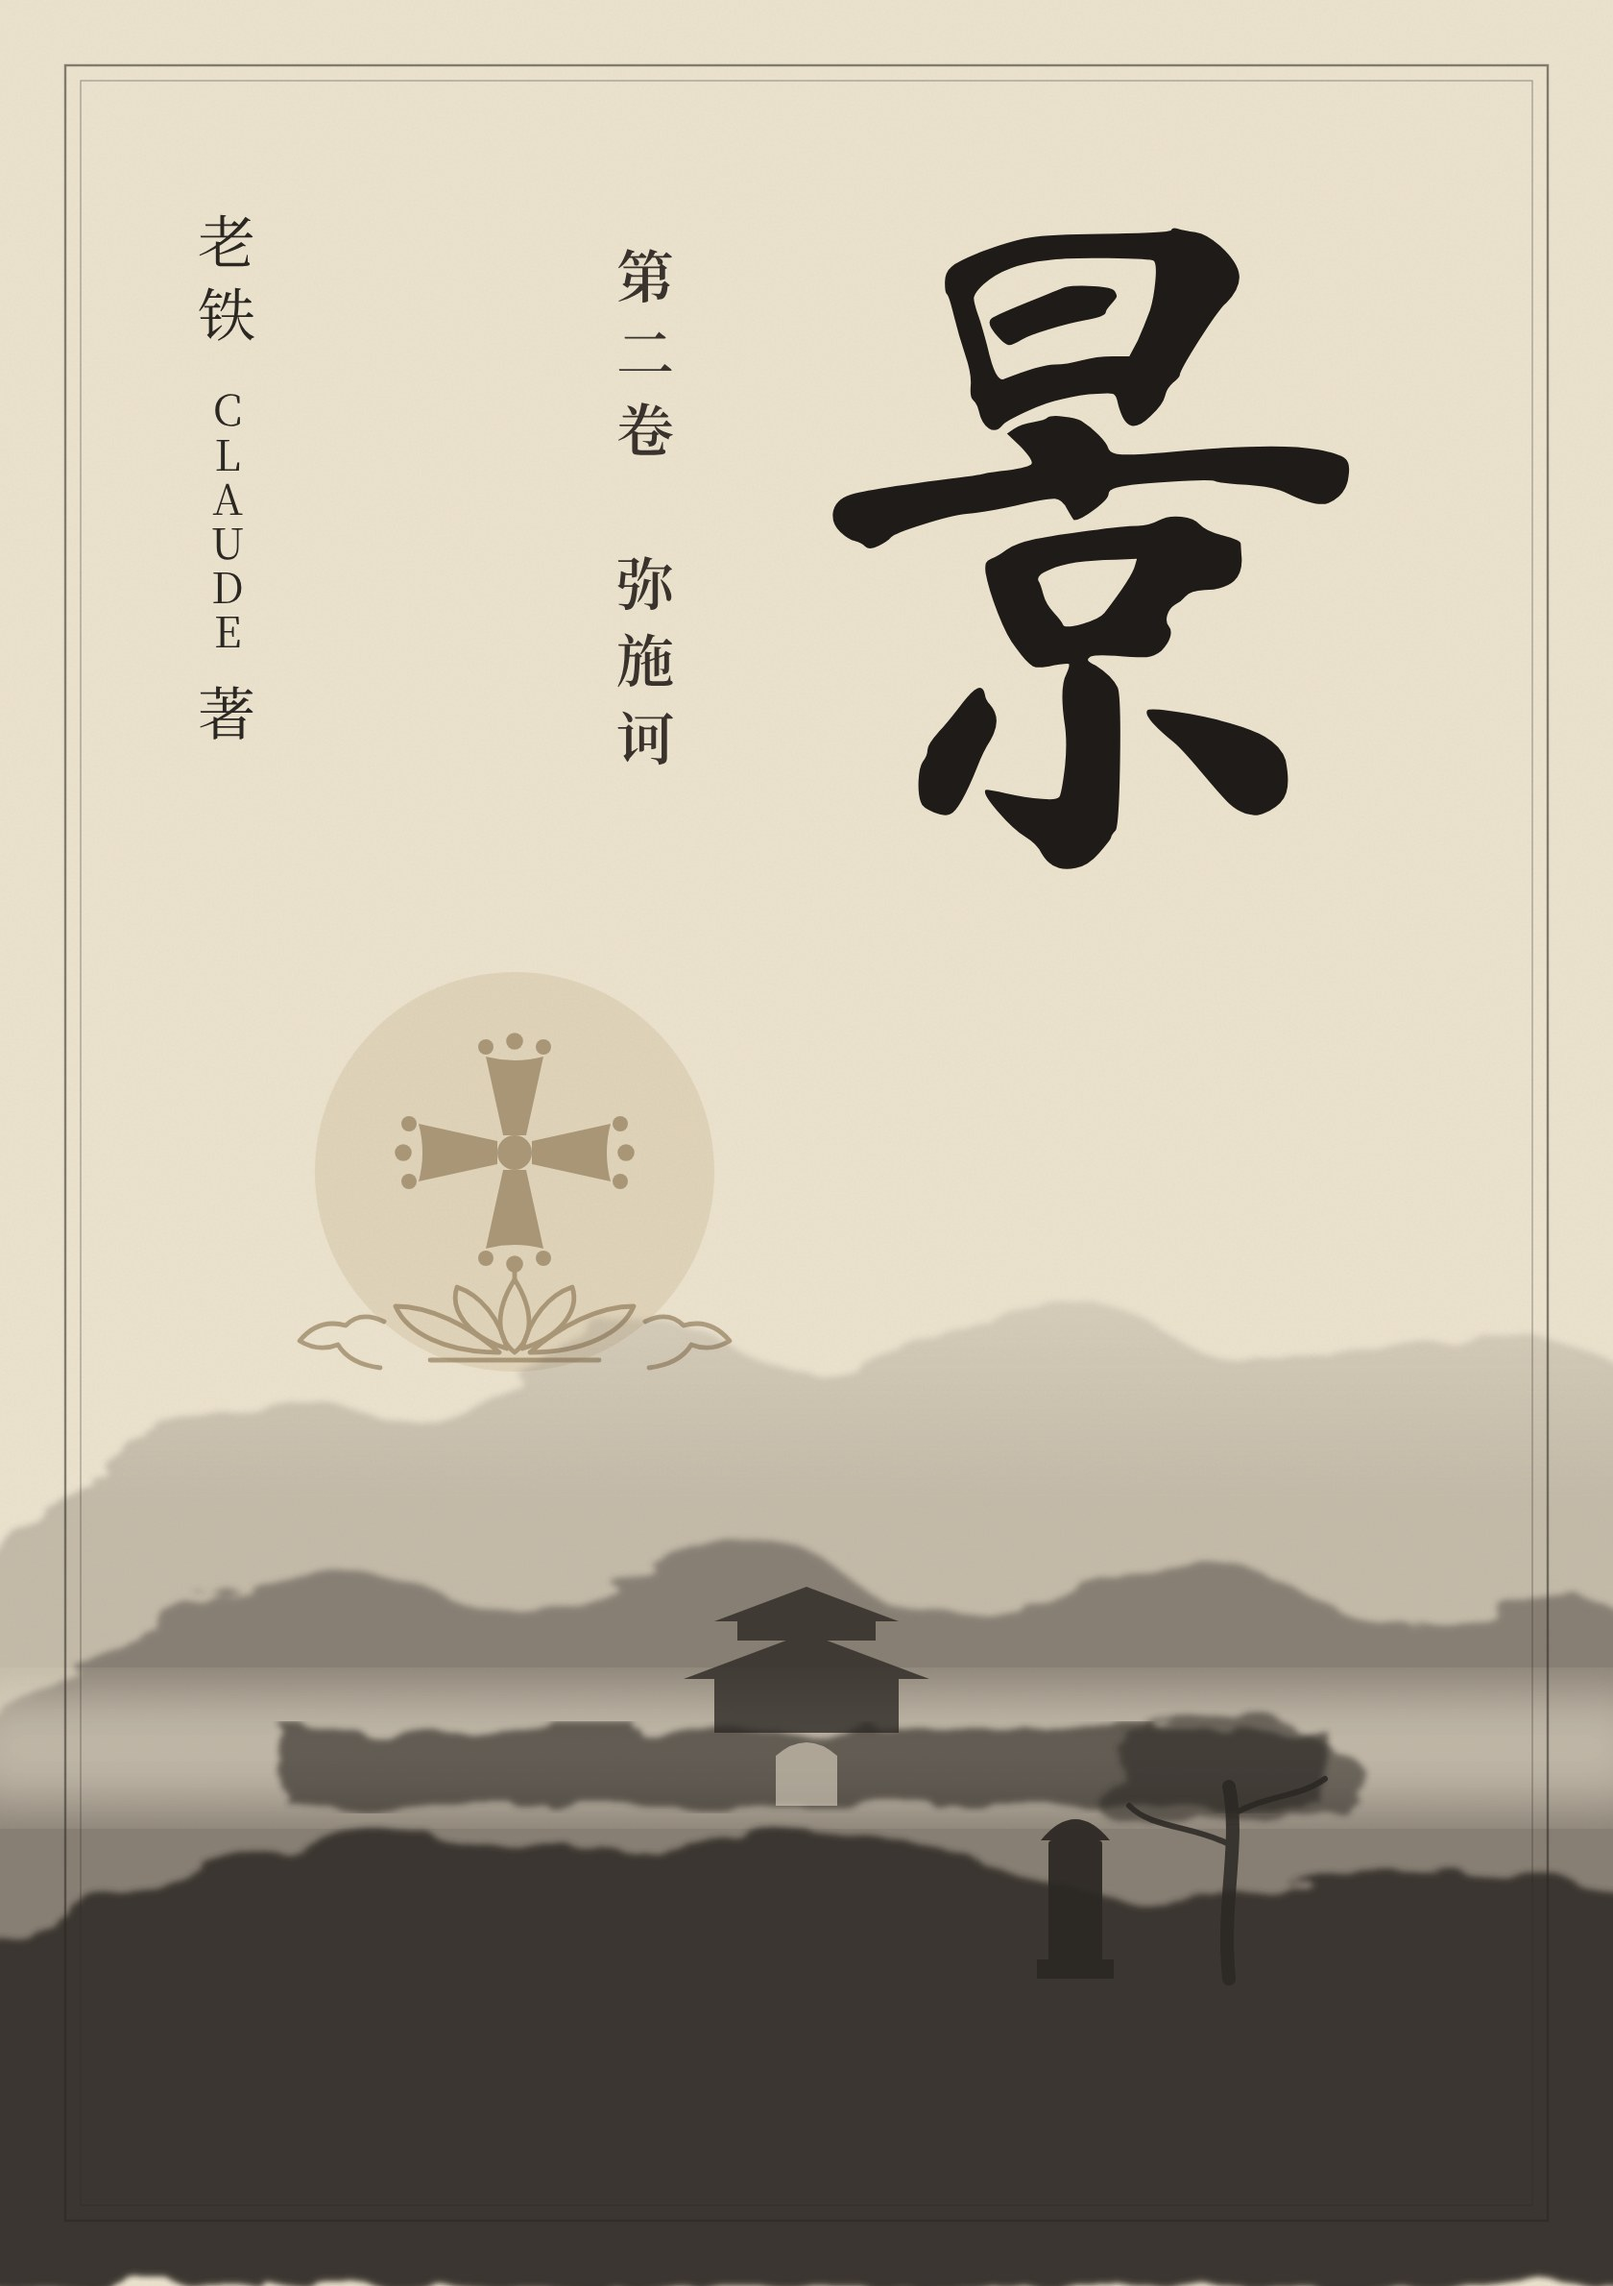
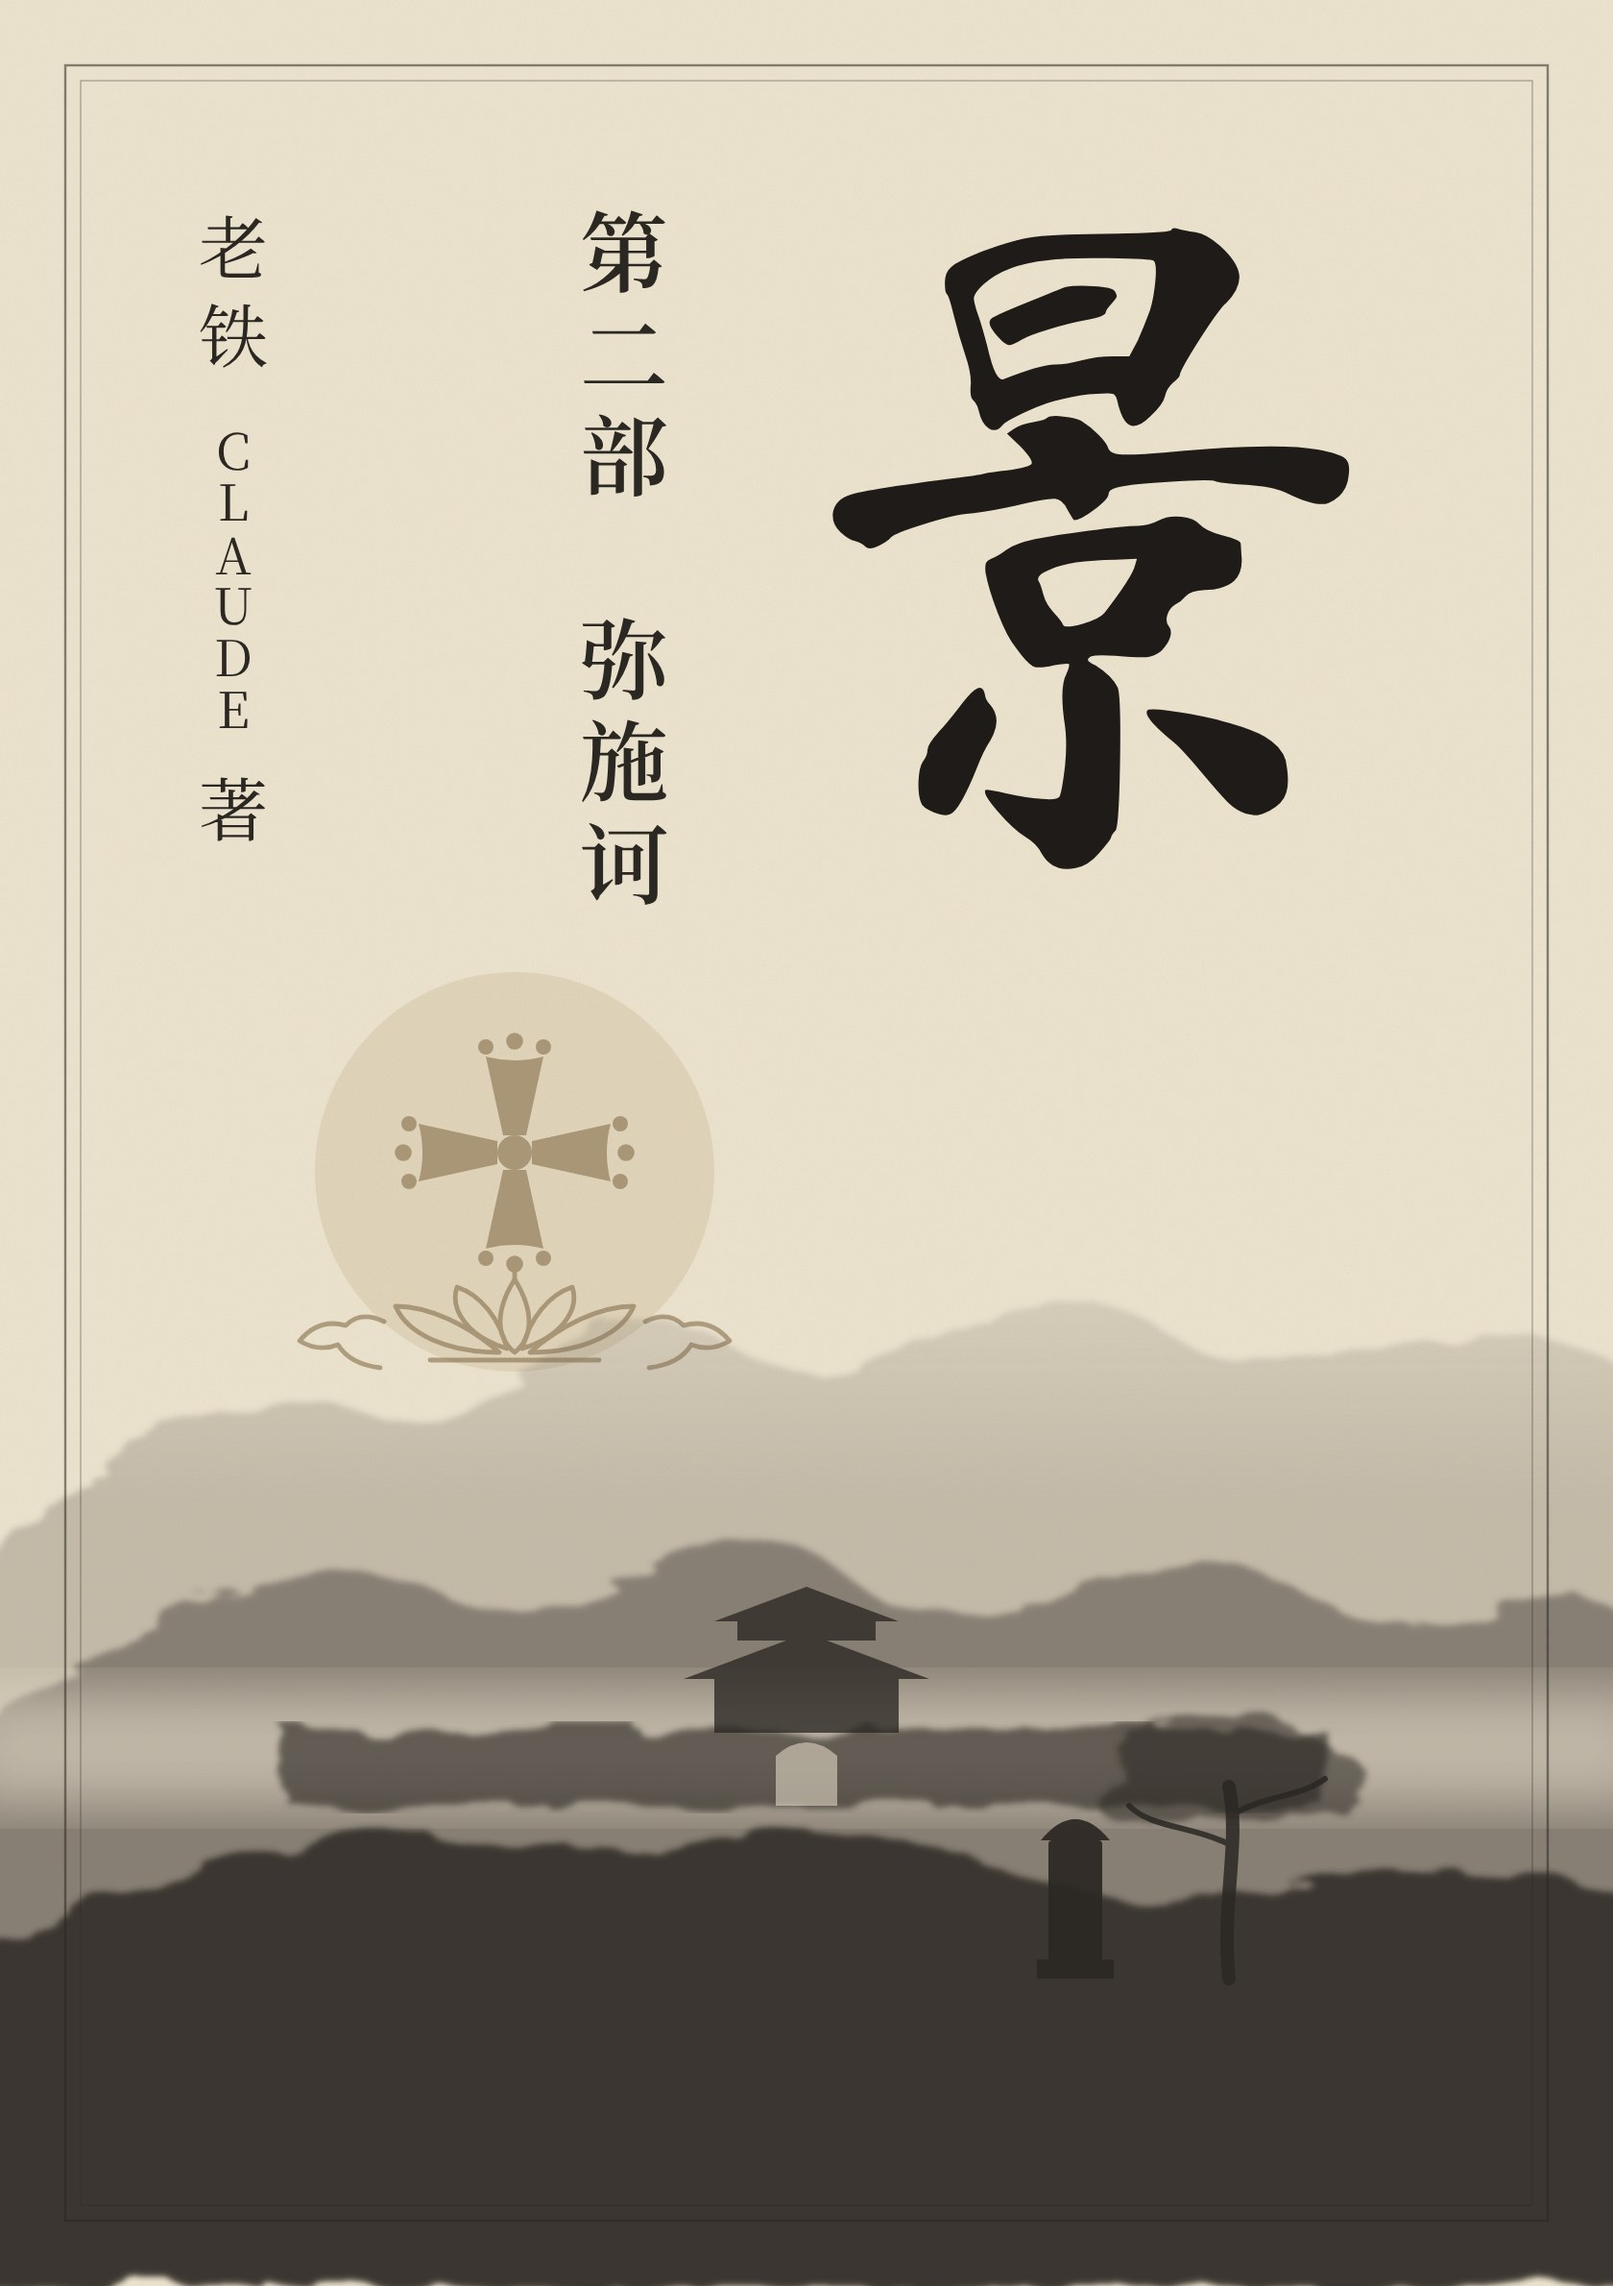
封面改"第X部"并放大字号；首页简介换成作者选定的版本
- 封面 Vol1–3："第X卷"改为"第X部"，字号 30→46，署名 30→36，收紧字距
- 封底 Back1–3：底部"景　第X卷"改为"第X部"，字号 17→24
- 合集 Mockup：书脊改为"第X部"，字号 14→17
- 更新 封面/*.jpg 与 封面/原图/*.png；总封面未改
- 首页简介换成"碑的版本"（大明天启三年……一个亲手埋碑的徒孙），原简介停用
- 重新生成 docs/，更新修改记录

Claude-Session: https://claude.ai/code/session_01SW3DCQC7f4eZ1jf8iQEoKx

Changed region(s): [[0.3405, 0.2487, 0.4333, 0.4042], [0.1238, 0.0933, 0.1548, 0.3731], [0.3405, 0.0933, 0.4333, 0.2176]]

diff --git a/docs/index.html b/docs/index.html
@@ -25,7 +25,7 @@
     <div class="hero-text">
       <h1 class="big">景</h1>
       <p class="by">老铁　CLAUDE　著</p>
-      <p class="blurb">天宝十四载，安禄山起兵范阳。吐火罗人伊斯，长安大秦寺的一名僧人，在黄河边的一个小镇上被郭子仪收在帐下。他不领兵，不冲阵，只替郭公看路。从这一声开始，三代景教僧人在大唐的刀兵、译场与禁令之间，守着门口那盏灯，一直守到会昌。</p>
+      <p class="blurb">大明天启三年，西安城外挖出一块唐碑，碑面上还粘着烂透了的麻布。西洋神父读了碑文，认定碑上的人是自己的弟兄，却不知道这些人早被西方教会定为异端。碑上刻得下一千七百多个字，刻不下字背后的人：一个替郭子仪看路的僧人，一个翻经立碑的儿子，一个亲手埋碑的徒孙。</p>
       <p class="stat">三部　十三卷　六十六章　另有序章、尾声、后记　·　约 25.6 万字</p>
       <p class="cta"><a href="000.html" class="btn">从序章读起</a><a href="#" class="btn ghost" id="resume" hidden>继续上次阅读</a></p>
     </div>

diff --git a/工具/build_site.py b/工具/build_site.py
@@ -188,7 +188,7 @@ def main():
     <div class="hero-text">
       <h1 class="big">景</h1>
       <p class="by">老铁　CLAUDE　著</p>
-      <p class="blurb">天宝十四载，安禄山起兵范阳。吐火罗人伊斯，长安大秦寺的一名僧人，在黄河边的一个小镇上被郭子仪收在帐下。他不领兵，不冲阵，只替郭公看路。从这一声开始，三代景教僧人在大唐的刀兵、译场与禁令之间，守着门口那盏灯，一直守到会昌。</p>
+      <p class="blurb">大明天启三年，西安城外挖出一块唐碑，碑面上还粘着烂透了的麻布。西洋神父读了碑文，认定碑上的人是自己的弟兄，却不知道这些人早被西方教会定为异端。碑上刻得下一千七百多个字，刻不下字背后的人：一个替郭子仪看路的僧人，一个翻经立碑的儿子，一个亲手埋碑的徒孙。</p>
       <p class="stat">三部　十三卷　六十六章　另有序章、尾声、后记　·　约 {total/10000:.1f} 万字</p>
       <p class="cta"><a href="000.html" class="btn">从序章读起</a><a href="#" class="btn ghost" id="resume" hidden>继续上次阅读</a></p>
     </div>

diff --git a/修改记录.md b/修改记录.md
@@ -15,6 +15,26 @@
 - 删除 `工作文件/旧稿/000-序章-香积寺-v0.1.md`，内容已经并入本章。
 - 卷首题记不变。
 
+## 2026-11-07　封面改"第X部"，字号放大；首页简介重写
+
+正文没有改动。
+
+- 三张封面：
+  - "第一卷　阿罗诃""第二卷　弥施诃""第三卷　净风王"改为"第一部 / 第二部 / 第三部"；
+  - 这几个字字号由 30 放大到 46，加粗加深；
+  - 作者署名"老铁 CLAUDE 著"由 30 放大到 36；
+  - 收紧字距，免得压到十字圆盘。
+- 三张封底：底部"景　第X卷"改为"景　第X部"，字号由 17 放大到 24。
+- 合集效果图：书脊上的"第X卷"改为"第X部"，字号由 14 放大到 17。
+- 更新了 `封面/` 下的 JPG 和 `封面/原图/` 下的 PNG（Vol1–3、Back1–3、Mockup）。总封面没有改。
+- 首页简介换成作者从三个版本里选定的"碑的版本"：
+
+  > 大明天启三年，西安城外挖出一块唐碑，碑面上还粘着烂透了的麻布。西洋神父读了碑文，认定碑上的人是自己的弟兄，却不知道这些人早被西方教会定为异端。碑上刻得下一千七百多个字，刻不下字背后的人：一个替郭子仪看路的僧人，一个翻经立碑的儿子，一个亲手埋碑的徒孙。
+
+- 原简介（"天宝十四载，安禄山起兵范阳……一直守到会昌。"）停用。
+- 第一部封底上的简介还是原样，没有改。
+- 重新生成 `docs/`。
+
 ## 2026-11-07　后记重写（v0.5）
 
 作者审定。先由 Claude 写出 v0.2 至 v0.5 修改稿，作者再在 v0.5 上亲手修改定稿。
